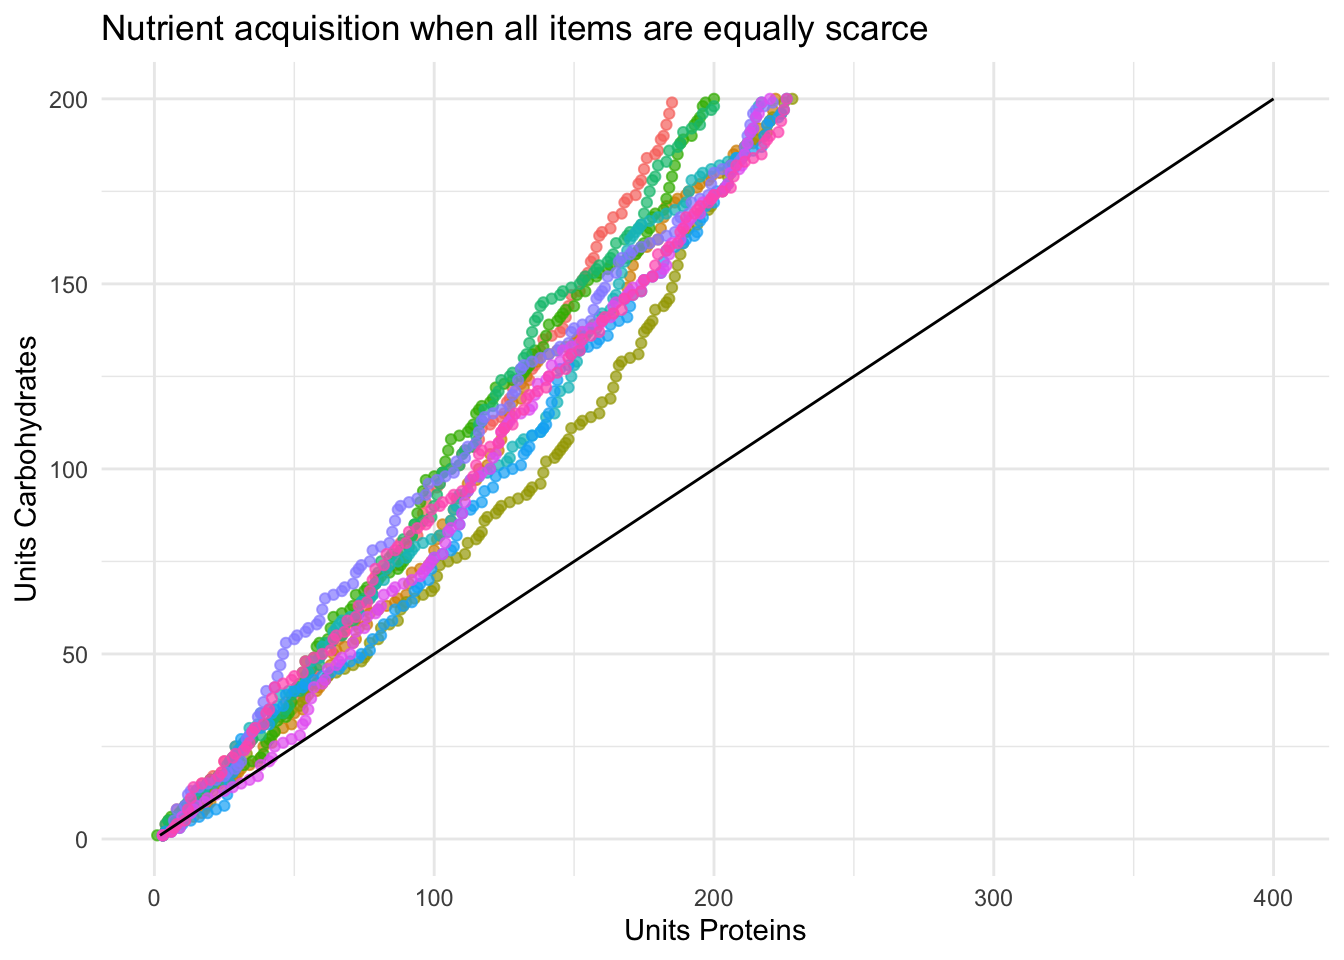
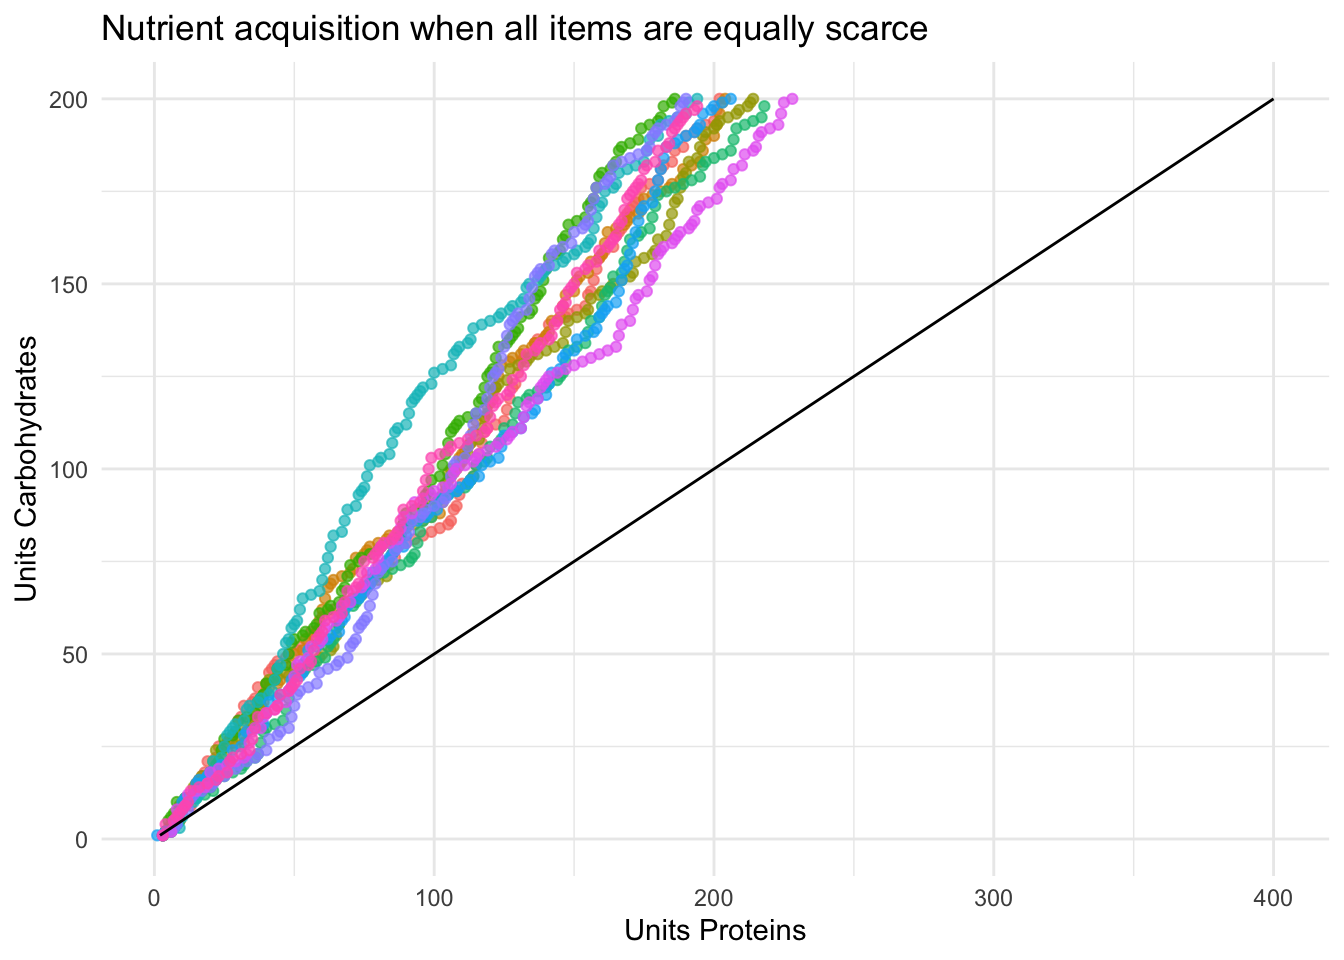
Fixed sub--heading "General concept..."

Changed region(s): [[0.0938, 0.0938, 0.5938, 0.875]]

diff --git a/content/post/food-simulation-I/index.html b/content/post/food-simulation-I/index.html
@@ -35,8 +35,10 @@ number-sections: true
 <p>Animals forage to meet their nutritional needs while avoiding potentially harmful components, such as toxins. <strong>Geometric Framework Models</strong>, which have gained popularity in recent years, provide a framework that takes into account that there is rarely one single resource that satisfies an animal’s nutritional requirements and animals have to balance the consumption of different food resources with different nutritional compositions <span class="citation">(<a href="#ref-lambert2015">Lambert &amp; Rothman, 2015</a>; <a href="#ref-simpson2011">Simpson &amp; Raubenheimer, 2011</a>)</span>. Thus, following Geometric Framework Models, the selection of food resources is not just based on general preferences for specific food items and their availability in the environment. Rather it depends on the animal’s nutritional goals, the composition (i.e. nutrients, harmful components) as well as the availability of food resources, and the animal’s current nutritional state (i.e. which nutrients have recently been consumed):</p>
 <p><img src="diagram.png" /></p>
 <p>Empirical studies on animal foraging behavior often focus on estimating preferences for different food items, which is usually done by calculating <strong>electivity indices</strong> <span class="citation">(<a href="#ref-manly2007">Manly et al., 2007</a>)</span>. Such indices have been developed with the assumption that animals consume different food items proportionally to their preferences for, and the availability of, the different items in the environment. This, however, hardly captures the complex decision-making processes involved in foraging.</p>
-<p>Assuming that Geometric Framework Models better reflect animal foraging decisions than just preference models, the applicability of such electivity indices is unclear. Therefore, <strong>we here simulate animals foraging according to such Geometric Framework Models to explore nutrient acquisition in different scenarios</strong> <strong>(Part 1), and then calculate electivity indices based on the observed consumption of different food items to compare these indices with what we know about the foraging behavior of our simulated animals (Part 2).</strong>
-## General concept of the simulation</p>
+<p>Assuming that Geometric Framework Models better reflect animal foraging decisions than just preference models, the applicability of such electivity indices is unclear. Therefore, <strong>we here simulate animals foraging according to such Geometric Framework Models to explore nutrient acquisition in different scenarios</strong> <strong>(Part 1), and then calculate electivity indices based on the observed consumption of different food items to compare these indices with what we know about the foraging behavior of our simulated animals (Part 2).</strong></p>
+</div>
+<div id="general-concept-of-the-simulation" class="section level2">
+<h2>General concept of the simulation</h2>
 <p>The basic idea is that the (simulated) animals have an <strong>optimal, or target, ratio</strong> of different nutrients, for example a ratio of proteins (P) to carbohydrates (C) of <strong>1P:1C</strong>. There are <strong>different food items</strong> in the environment, and these items vary with regard to their <strong>nutritional content</strong>, for example item A has 3 units protein and 1 unit carbohydrates (= 3P:1C), whereas another item B has 1 unit proteins and 3 units carbohydrates (= 1P:3C). Thus, <strong>neither item will allow an animal to stay close to their target ratio of 1P:1C</strong> and they have to feed from both items. In other words, after each feeding event, the ratio of consumed nutrients will deviate from the target ratio in one or another direction. This affects which food item should be eaten next. However, in our simulation (and in nature), different items can vary with regard to their <strong>availability</strong>, it is thereby ‘easier’ for animals to consume more abundant items. This means that which item is selected in each feeding event depends on <em>(i)</em> how much the ratio of consumed nutrients would deviate from the target ratio after eating that item and <em>(ii)</em> the availability of different food items.</p>
 <p>This simulation is done using the function <code>geometric_framework()</code>, for which the code is provided below. For each individual, the simulation runs through <em>n</em> feeding events. For each feeding event, the function calculates the cumulative units of each nutrient that would be consumed if a particular food item was eaten, and how much the new nutrient ratio would deviate from the target ratio. Based on this deviation and the availability of the item, the function calculates the relative probability of consuming each item, which is then used to determine which item is actually consumed (more details are provided below). The cumulative nutrient units consumed are updated for that individual after each feeding event.</p>
 <p>This simulation is done for a given number of individuals, which currently all have the same nutritional target. Furthermore, all individuals can feed on the same food items, each item with a defined content of different nutrients. However, we simulate inter-individual variability in the availability of food items (subjective food availability) to mimic natural variation between individuals due to differences in feeding position, cognitive capacities (i.e., skills to find and utilize specific items) and other factors. This variability is realized using a beta-distribution. The function can be used to simulate different kinds of scenarios to explore how animals would move through their nutritional landscapes.</p>
@@ -273,11 +275,11 @@ gf_df1 &lt;- geometric_framework(items_nutrients = items_nutrients,
 head(gf_df1)</code></pre>
 <pre><code>##   Feeding_event Individual Nutrient1 Nutrient2 Item_in_diet
 ## 1             1          1         3         1            1
-## 2             2          1         4         4            2
-## 3             3          1         7         5            1
-## 4             4          1         8         8            2
-## 5             5          1        11         9            1
-## 6             6          1        14        10            1</code></pre>
+## 2             2          1         4         2            3
+## 3             3          1         5         3            3
+## 4             4          1         6         4            3
+## 5             5          1         9         5            1
+## 6             6          1        10         8            2</code></pre>
 <p>We illustrate the nutrient acquisition over feeding events with equally highly available items in the individuals environment.</p>
 <pre class="r"><code>ggplot() +
   geom_point(aes(x = Nutrient1, y = Nutrient2, color = Individual),
@@ -315,11 +317,11 @@ gf_df2 &lt;- geometric_framework(items_nutrients = items_nutrients,
 head(gf_df2)</code></pre>
 <pre><code>##   Feeding_event Individual Nutrient1 Nutrient2 Item_in_diet
 ## 1             1          1         3         1            1
-## 2             2          1         6         2            1
-## 3             3          1         9         3            1
-## 4             4          1        12         4            1
-## 5             5          1        13         7            2
-## 6             6          1        14         8            3</code></pre>
+## 2             2          1         4         2            3
+## 3             3          1         7         3            1
+## 4             4          1        10         4            1
+## 5             5          1        13         5            1
+## 6             6          1        16         6            1</code></pre>
 <p>We illustrate the nutrient acquisition over feeding events with only item 1, which has a high protein content and is abundant in the individuals’ environment. The remaining items are scarce.</p>
 <pre class="r"><code>sc2 &lt;- ggplot() +
   geom_point(aes(x = Nutrient1, y = Nutrient2, color = Individual),
@@ -358,12 +360,12 @@ gf_df3 &lt;- geometric_framework(items_nutrients = items_nutrients,
 
 head(gf_df3)</code></pre>
 <pre><code>##   Feeding_event Individual Nutrient1 Nutrient2 Item_in_diet
-## 1             1          1         3         1            1
-## 2             2          1         4         4            2
-## 3             3          1         5         5            3
-## 4             4          1         8         6            1
-## 5             5          1        11         7            1
-## 6             6          1        12        10            2</code></pre>
+## 1             1          1         1         1            3
+## 2             2          1         2         2            3
+## 3             3          1         3         3            3
+## 4             4          1         6         4            1
+## 5             5          1         9         5            1
+## 6             6          1        10         8            2</code></pre>
 <p>We illustrate the nutrient acquisition over feeding events with only item 2, which has a high carbohydrate content and is abundant in the individuals’ environment. The remaining items are scarce.</p>
 <pre class="r"><code>ggplot() +
   geom_point(aes(x = Nutrient1, y = Nutrient2, color = Individual),
